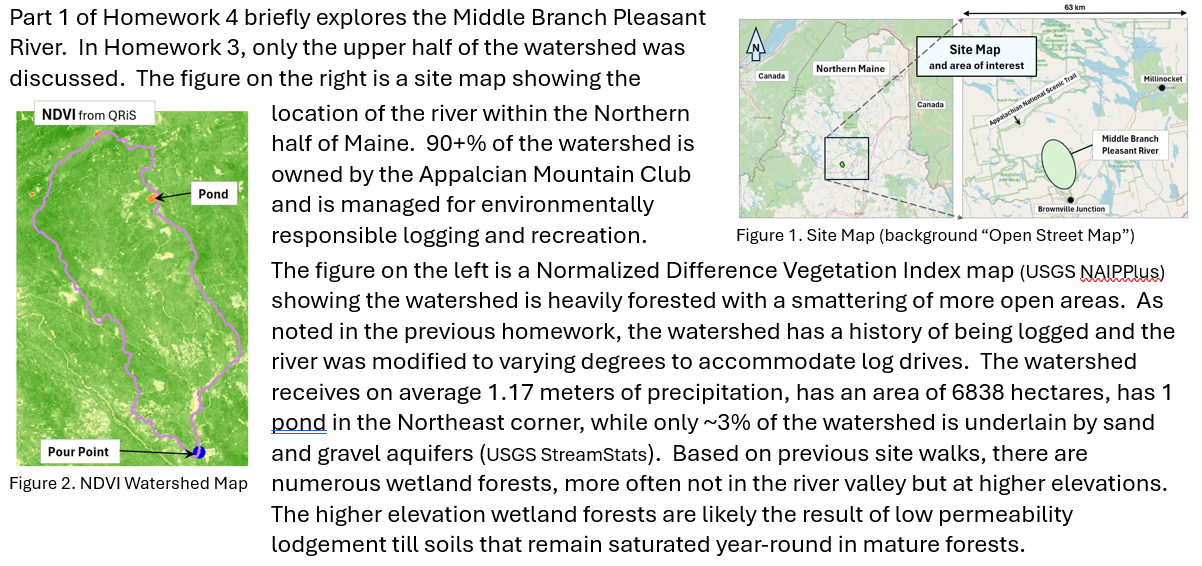
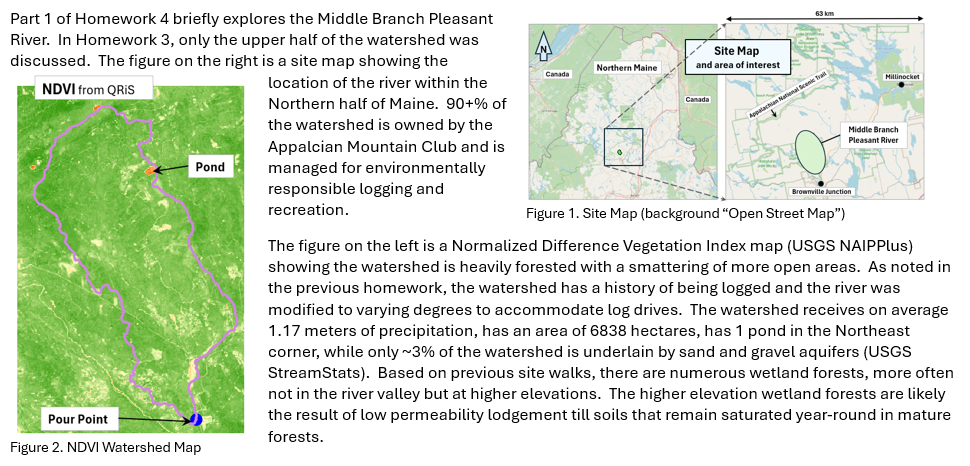
Added page 2

diff --git a/HW4/index.html b/HW4/index.html
@@ -10,14 +10,17 @@
     <hr>
     <p>
         <h2>Part 1 - Middle Branch Pleasant River Watershed</h2>
-        <!--img src="../HW4/HW4_P1A.png" width="900" alt="">
-        <img src="../HW4/HW4_P1A.png" width="900" alt=""-->
-        <img src="../HW4/HW4_P1A.png" alt="" style="margin-left: 50px; margin-bottom: 10px; width: 1000"><br>
-        <img src="../HW4/HW4_P1B.png" alt="" style="margin-left: 150px; margin-bottom: 10px; width: 1000">
+        <img src="../HW4/HW4_P1A.png" alt="" style="margin-left: 50px; margin-bottom: 10px; width: 1100"><br>
+        <img src="../HW4/HW4_P1B.png" alt="" style="margin-left: 150px; margin-bottom: 10px; width: 1100">
     </p>
     <hr>
-
-    <!--img src="../HW3/hw3_M7b.png" alt="" style="margin-left: 50px; margin-bottom: 10px; width: 500" -->
+    <p>
+        <h2>Part 2 - USGS Stream Gage:</h2>
+        <img src="../HW4/HW4_P2A.png" alt="" style="margin-left: 50px; margin-bottom: 10px; width: 1100"><br>
+        <!--img src="../HW4/HW4_P1B.png" alt="" style="margin-left: 150px; margin-bottom: 10px; width: 1100"-->
+    </p>
+    <hr>
+    
 
 
     
